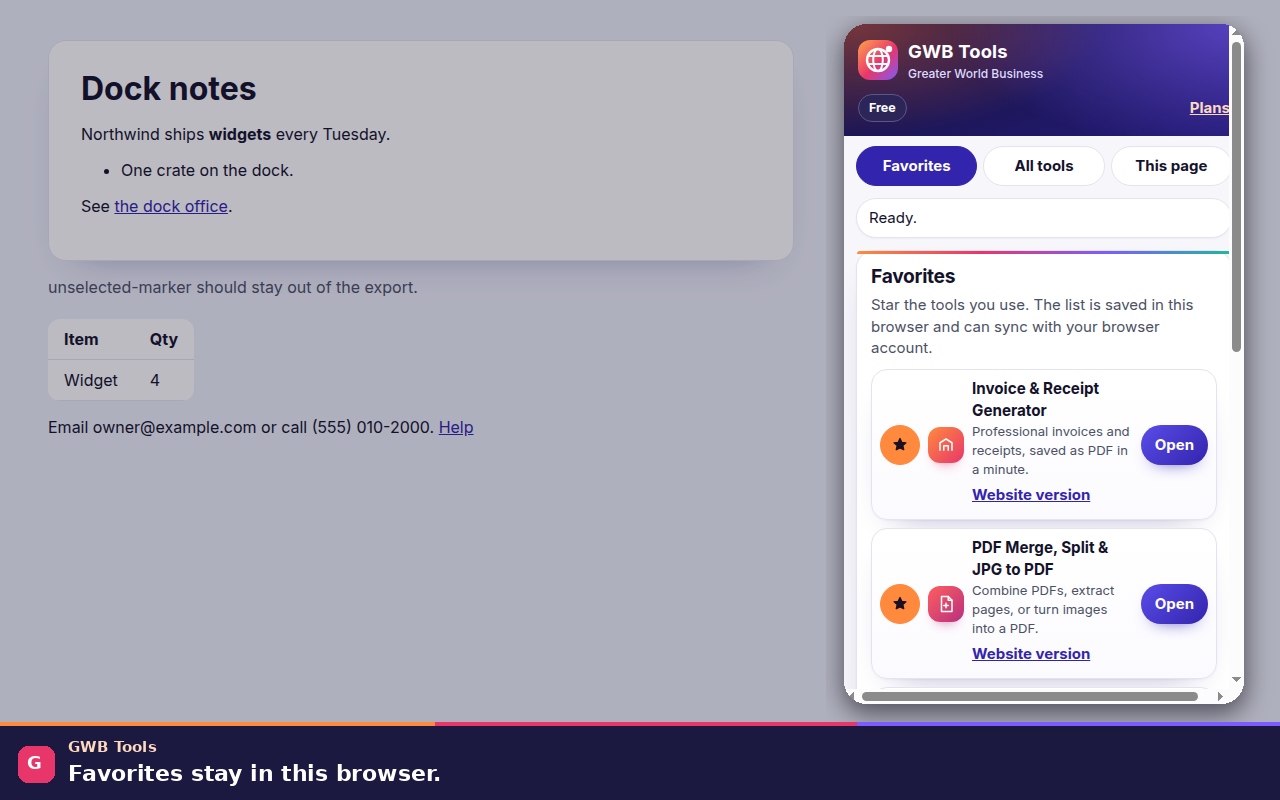
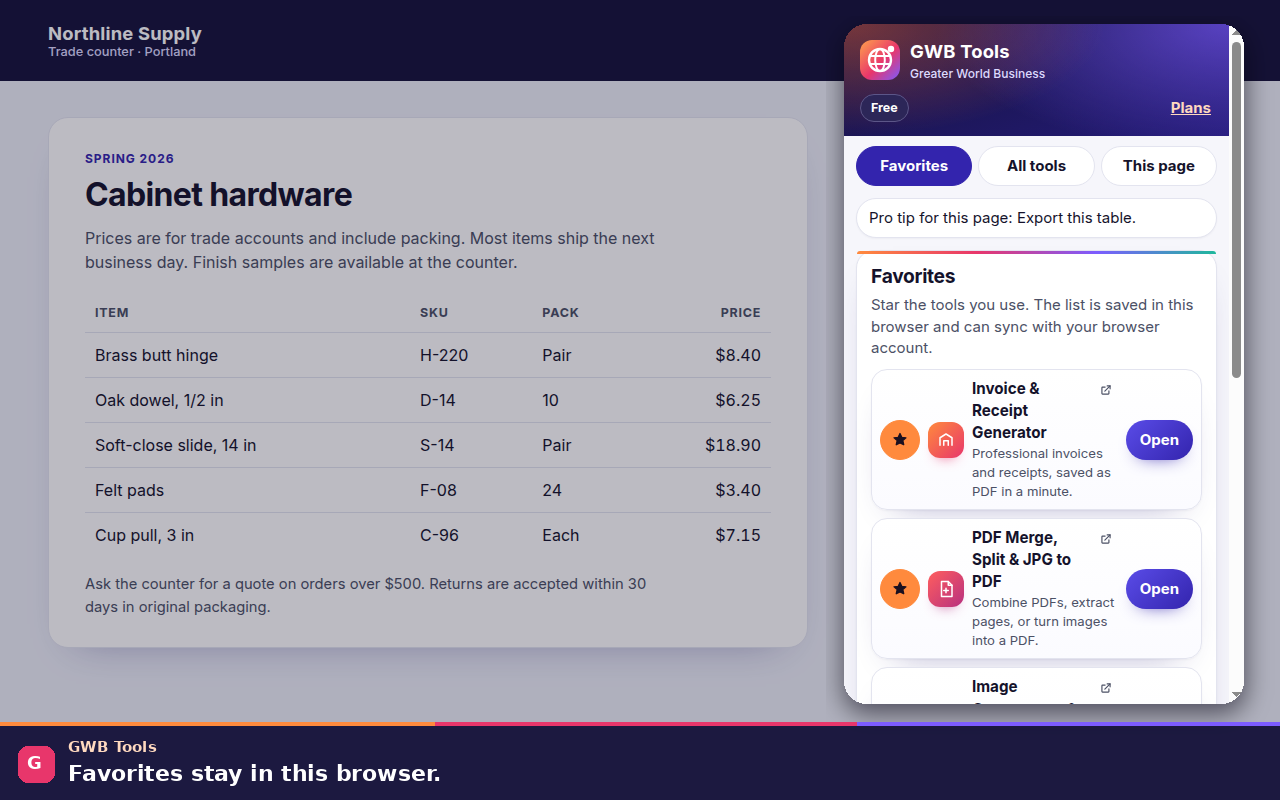
Fit the popup at 400px and reshoot the store frames.
Stop the horizontal scrollbar and the clipped Plans link, check scrollWidth in Playwright, and composite the screenshots over a price-list page instead of the test fixture. The website link on each tool is now a small icon.

diff --git a/extension/src/ui/styles.css b/extension/src/ui/styles.css
@@ -58,7 +58,7 @@
   }
 }
 * { box-sizing: border-box; }
-html, body { margin: 0; }
+html, body { margin: 0; max-width: 100%; }
 html { font-family: var(--sans); }
 body {
   font-family: var(--sans);
@@ -67,18 +67,23 @@ body {
   font-size: 15px;
   line-height: 1.45;
 }
-body.surface-popup { width: 400px; min-height: 560px; }
+body.surface-popup { width: 400px; max-width: 100%; min-height: 560px; }
 body.surface-sidepanel,
-body.surface-panel { width: 100%; min-width: 320px; min-height: 100vh; }
+body.surface-panel { width: 100%; min-width: 0; min-height: 100vh; }
+#app, .shell, .head, main, .card, .row, .foot, .views, .list { min-width: 0; max-width: 100%; }
 #app { min-height: inherit; }
 .shell { display: flex; flex-direction: column; min-height: inherit; }
 .surface-sidepanel .shell,
 .surface-panel .shell { width: min(720px, 100%); margin: 0 auto; }
 .skip {
-  position: absolute; left: -999px; top: 8px; background: var(--card); color: var(--ink);
-  padding: 8px 12px; border-radius: 8px; z-index: 5;
+  position: absolute; width: 1px; height: 1px; margin: -1px; padding: 0; overflow: hidden;
+  clip: rect(0 0 0 0); white-space: nowrap; border: 0;
 }
-.skip:focus { left: 8px; }
+.skip:focus {
+  width: auto; height: auto; margin: 0; left: 8px; top: 8px; padding: 8px 12px;
+  overflow: visible; clip: auto; background: var(--card); color: var(--ink);
+  border-radius: 8px; z-index: 5;
+}
 .vh {
   position: absolute !important; width: 1px; height: 1px; overflow: hidden;
   clip: rect(0 0 0 0); white-space: nowrap;
@@ -87,7 +92,7 @@ body.surface-panel { width: 100%; min-width: 320px; min-height: 100vh; }
 .head {
   position: relative;
   color: #fff;
-  padding: 14px 14px 12px;
+  padding: 14px 16px 12px;
   background-color: var(--night);
   background-image:
     radial-gradient(420px 180px at 0% 0%, rgba(255, 106, 61, 0.42), transparent 62%),
@@ -98,7 +103,7 @@ body.surface-panel { width: 100%; min-width: 320px; min-height: 100vh; }
 .brand svg { flex: none; }
 .brand b { font-family: var(--sans); font-size: 1.15rem; font-weight: 750; letter-spacing: 0.01em; }
 .brand small { display: block; color: #dedbff; font-size: 0.75rem; font-weight: 500; }
-.tier-row { display: flex; justify-content: space-between; align-items: center; gap: 8px; margin-top: 10px; }
+.tier-row { display: flex; justify-content: space-between; align-items: center; gap: 8px; margin-top: 10px; min-width: 0; }
 .badge {
   display: inline-flex; align-items: center; min-height: 28px; padding: 2px 10px;
   border-radius: 999px; background: #2c2658; color: #fff;
@@ -123,11 +128,11 @@ button:disabled { opacity: 0.55; cursor: not-allowed; transform: none; }
   color: var(--accent); min-height: 32px; padding: 2px 0; border-radius: 8px;
   text-decoration: underline; justify-content: flex-start;
 }
-.head button.linkish { color: var(--peach); }
+.head button.linkish { color: var(--peach); flex: none; white-space: nowrap; margin-right: 2px; }
 .views { display: flex; gap: 6px; padding: 10px 12px 0; background: var(--bg); }
 .views button {
-  flex: 1; background: var(--card); background-image: none; color: var(--ink);
-  box-shadow: none; border: 1.5px solid var(--line);
+  flex: 1 1 0; min-width: 0; background: var(--card); background-image: none; color: var(--ink);
+  box-shadow: none; border: 1.5px solid var(--line); padding-left: 8px; padding-right: 8px;
 }
 .views button[aria-pressed="true"] {
   background: var(--brand-d); background-image: none; color: #fff; border-color: var(--brand-d);
@@ -174,9 +179,17 @@ p { margin: 0; }
   background: linear-gradient(180deg, var(--card), var(--card-2));
   box-shadow: var(--shadow);
 }
-.row .tool-name { margin: 0; font-size: 0.95rem; font-weight: 750; color: var(--ink); }
+.name-line { display: flex; align-items: flex-start; gap: 2px; min-width: 0; }
+.row .tool-name { margin: 0; font-size: 0.95rem; font-weight: 750; color: var(--ink); min-width: 0; overflow-wrap: break-word; }
 .row > div { min-width: 0; }
-.row p { color: var(--muted); font-size: 0.82rem; }
+.row p { color: var(--muted); font-size: 0.82rem; overflow-wrap: break-word; }
+button.icon-link {
+  width: 24px; height: 24px; min-height: 24px; padding: 0; flex: none;
+  background: none; background-image: none; color: var(--muted);
+  box-shadow: none; border: 0; border-radius: 6px;
+}
+button.icon-link:hover { background: var(--soft); transform: none; }
+button.icon-link svg { width: 14px; height: 14px; fill: none; stroke: currentColor; stroke-width: 2; stroke-linecap: round; stroke-linejoin: round; }
 .ico {
   width: 36px; height: 36px; border-radius: 12px; display: grid; place-items: center; color: #fff;
   background: linear-gradient(135deg, var(--c1), var(--c2));
@@ -295,7 +308,7 @@ legend { font-weight: 750; padding: 0 4px; }
 }
 .site-link { font-weight: 700; color: var(--accent); }
 .foot {
-  padding: 4px 14px 14px; display: flex; justify-content: space-between; gap: 8px; align-items: center;
+  padding: 4px 14px 14px; display: flex; justify-content: space-between; gap: 8px; align-items: center; flex-wrap: wrap;
 }
 .foot a { color: var(--accent); font-weight: 700; }
 .preview { max-width: 100%; border-radius: 12px; border: 1px solid var(--line); }

diff --git a/extension/tests/e2e/extension.spec.ts b/extension/tests/e2e/extension.spec.ts
@@ -28,14 +28,42 @@ function frameImage(pageFile: string, name: string, caption: string, popupFile =
   fs.copyFileSync(out, path.join(artifacts, name));
 }
 
-async function framePopup(background: Page, panel: Page, name: string, caption: string, scrollTo = '', height = 680) {
+async function expectNoHorizontalScroll(page: Page) {
+  await page.evaluate(() => window.scrollTo(0, 0));
+  const plans = await page.locator('#plans-link').boundingBox();
+  const width = page.viewportSize()?.width ?? 0;
+  expect(plans, 'Plans link is on screen').toBeTruthy();
+  expect(plans!.x).toBeGreaterThanOrEqual(0);
+  expect(plans!.x + plans!.width).toBeLessThanOrEqual(width + 1);
+  const fit = await page.evaluate(() => ({
+    scrollWidth: document.documentElement.scrollWidth,
+    clientWidth: document.documentElement.clientWidth,
+  }));
+  expect(fit.scrollWidth, `horizontal overflow ${fit.scrollWidth} > ${fit.clientWidth}`).toBeLessThanOrEqual(fit.clientWidth);
+}
+
+async function expectViewsFit(page: Page) {
+  const previous = page.viewportSize();
+  await page.setViewportSize({ width: 400, height: 700 });
+  try {
+    for (const id of ['#view-favorites', '#view-all', '#view-page']) {
+      await page.click(id);
+      await expectNoHorizontalScroll(page);
+    }
+  } finally {
+    if (previous) await page.setViewportSize(previous);
+  }
+}
+
+async function framePopup(panel: Page, name: string, caption: string, scrollTo = '', height = 680) {
   const tmp = fs.mkdtempSync(path.join(os.tmpdir(), 'gwb-frame-'));
   const pageFile = path.join(tmp, 'page.png');
   const popFile = path.join(tmp, 'popup.png');
-  const previous = background.viewportSize();
-  await background.setViewportSize({ width: 1280, height: 800 });
-  await background.screenshot({ path: pageFile });
-  if (previous) await background.setViewportSize(previous);
+  const stage = await panel.context().newPage();
+  await stage.setViewportSize({ width: 1280, height: 800 });
+  await stage.setContent(fs.readFileSync(path.join(root, 'store', 'backdrop.html'), 'utf8'), { waitUntil: 'load' });
+  await stage.screenshot({ path: pageFile });
+  await stage.close();
   const panelPrevious = panel.viewportSize();
   await panel.setViewportSize({ width: 400, height });
   try {
@@ -183,17 +211,19 @@ test('popup, tools, three tiers, and page tips', async () => {
     await expect(popup.locator('#fav-list [data-tool="password"]')).toBeVisible();
 
     const panel = await context.newPage();
-    await panel.setViewportSize({ width: 1280, height: 800 });
+    await panel.setViewportSize({ width: 400, height: 700 });
     await panel.goto(`chrome-extension://${extId}/panel.html`);
     await expect(panel.locator('#fav-list [data-tool="invoice"]')).toBeVisible();
+    await expectViewsFit(popup);
+    await popup.click('#view-favorites');
+    await expectViewsFit(panel);
     await panel.close();
 
-    await web.goto('http://127.0.0.1:8799/sample.html');
-    await framePopup(web, popup, '01-favorites.png', 'Favorites stay in this browser.');
+    await framePopup(popup, '01-favorites.png', 'Favorites stay in this browser.');
     await popup.click('#view-all');
     await popup.locator('#tool-search').fill('invoice');
     await expect(popup.locator('#all-list [data-tool="invoice"]')).toBeVisible();
-    await framePopup(web, popup, '02-all-tools.png', 'Search every tool, then filter by category.', '#all-heading');
+    await framePopup(popup, '02-all-tools.png', 'Search every tool, then filter by category.', '#all-heading');
   });
 
   await test.step('search finds the ringtone tool', async () => {
@@ -263,8 +293,7 @@ test('popup, tools, three tiers, and page tips', async () => {
     await expectTip('long.html', 'Long document');
     await expectTip('invoice.html', 'Looks like an invoice');
     await expectTip('pdf.html', 'PDF on this page');
-    await web.goto('http://127.0.0.1:8799/sample.html');
-    await framePopup(web, popup, '06-plans.png', 'Free, Pro, and Pro Plus.', '#upgrade', 560);
+    await framePopup(popup, '06-plans.png', 'Free, Pro, and Pro Plus.', '#upgrade', 560);
   });
 
   await test.step('Pro reads only the chosen text on this device', async () => {
@@ -279,10 +308,10 @@ test('popup, tools, three tiers, and page tips', async () => {
     await popup.locator('#scan-page').click();
     await expect(popup.locator('#tips')).toContainText('Export this table');
     await expect(popup.locator('#status')).toContainText('Page tips are below.');
-    await framePopup(web, popup, '03-this-page.png', 'A relevant tip for the page you are on.', '#tips-heading');
+    await framePopup(popup, '03-this-page.png', 'A relevant tip for the page you are on.', '#tips-heading');
     await popup.locator('#ai-summarize').click();
     await expect(popup.locator('#status')).toContainText('On-device AI is not available');
-    await framePopup(web, popup, '07-ai-summarize.png', 'Summarize a selection on this device.', '#ai-heading');
+    await framePopup(popup, '07-ai-summarize.png', 'Summarize a selection on this device.', '#ai-heading');
 
     await popup.locator('#act-md').click();
     await expect(popup.locator('#md-out')).toHaveValue(/widgets/, { timeout: 20000 });

diff --git a/extension/store/backdrop.html b/extension/store/backdrop.html
@@ -1,0 +1,82 @@
+<!doctype html>
+<html lang="en">
+<head>
+  <meta charset="utf-8">
+  <title>Northline Supply — Spring price list</title>
+  <style>
+    :root { color-scheme: light; }
+    * { box-sizing: border-box; }
+    body {
+      margin: 0;
+      font-family: system-ui, -apple-system, "Segoe UI", Roboto, "Helvetica Neue", Arial, sans-serif;
+      background: #eef0f8;
+      color: #14122b;
+    }
+    .top {
+      display: flex;
+      justify-content: space-between;
+      align-items: center;
+      padding: 22px 48px;
+      background: #15123a;
+      color: #fff;
+    }
+    .top b { font-size: 1.15rem; letter-spacing: 0.01em; }
+    .top span { display: block; color: #dedbff; font-size: 0.8rem; font-weight: 500; }
+    .top a { color: #ffd9bf; font-weight: 700; text-decoration: none; }
+    main { padding: 36px 48px 80px; }
+    article {
+      max-width: 760px;
+      background: #fff;
+      border: 1px solid #e3e4ef;
+      border-radius: 20px;
+      padding: 32px 36px 28px;
+      box-shadow: 0 18px 40px -28px rgba(36, 27, 120, 0.45);
+    }
+    .eyebrow {
+      margin: 0 0 6px;
+      text-transform: uppercase;
+      letter-spacing: 0.08em;
+      font-size: 0.75rem;
+      font-weight: 750;
+      color: #3324ad;
+    }
+    h1 { margin: 0 0 12px; font-size: 2rem; letter-spacing: -0.02em; font-weight: 750; }
+    p { margin: 0 0 18px; color: #4b5065; line-height: 1.55; max-width: 62ch; }
+    table { width: 100%; border-collapse: collapse; }
+    th, td { padding: 12px 10px; text-align: left; border-bottom: 1px solid #e3e4ef; }
+    th { font-size: 0.78rem; letter-spacing: 0.06em; text-transform: uppercase; color: #4b5065; }
+    td:last-child, th:last-child { text-align: right; font-variant-numeric: tabular-nums; }
+    tr:last-child td { border-bottom: 0; }
+    .note { margin: 16px 0 0; font-size: 0.92rem; }
+  </style>
+</head>
+<body>
+  <header class="top">
+    <div>
+      <b>Northline Supply</b>
+      <span>Trade counter · Portland</span>
+    </div>
+    <a href="#list">Price list</a>
+  </header>
+  <main>
+    <article id="list">
+      <p class="eyebrow">Spring 2026</p>
+      <h1>Cabinet hardware</h1>
+      <p>Prices are for trade accounts and include packing. Most items ship the next business day. Finish samples are available at the counter.</p>
+      <table>
+        <thead>
+          <tr><th>Item</th><th>SKU</th><th>Pack</th><th>Price</th></tr>
+        </thead>
+        <tbody>
+          <tr><td>Brass butt hinge</td><td>H-220</td><td>Pair</td><td>$8.40</td></tr>
+          <tr><td>Oak dowel, 1/2 in</td><td>D-14</td><td>10</td><td>$6.25</td></tr>
+          <tr><td>Soft-close slide, 14 in</td><td>S-14</td><td>Pair</td><td>$18.90</td></tr>
+          <tr><td>Felt pads</td><td>F-08</td><td>24</td><td>$3.40</td></tr>
+          <tr><td>Cup pull, 3 in</td><td>C-96</td><td>Each</td><td>$7.15</td></tr>
+        </tbody>
+      </table>
+      <p class="note">Ask the counter for a quote on orders over $500. Returns are accepted within 30 days in original packaging.</p>
+    </article>
+  </main>
+</body>
+</html>

diff --git a/extension/src/ui/App.tsx b/extension/src/ui/App.tsx
@@ -539,9 +539,17 @@ function ToolRow({ tool, starred, onStar }: { tool: Tool; starred: boolean; onSt
       </button>
       <ToolIcon category={tool.category} />
       <div>
-        <p class="tool-name">{tool.name}</p>
+        <div class="name-line">
+          <p class="tool-name">{tool.name}</p>
+          <button type="button" class="icon-link" aria-label={`Website version of ${tool.name}`} onClick={() => openWebsite(tool.id)}>
+            <svg viewBox="0 0 24 24" aria-hidden="true">
+              <path d="M14 5h5v5" />
+              <path d="M19 5l-9 9" />
+              <path d="M17 13.5V18a1 1 0 0 1-1 1H6a1 1 0 0 1-1-1V8a1 1 0 0 1 1-1h4.5" />
+            </svg>
+          </button>
+        </div>
         <p>{tool.summary}</p>
-        <button type="button" class="linkish" onClick={() => openWebsite(tool.id)}>Website version</button>
       </div>
       <button type="button" class="open" data-open={tool.id} onClick={() => openTool(tool.id)}>Open</button>
     </li>
